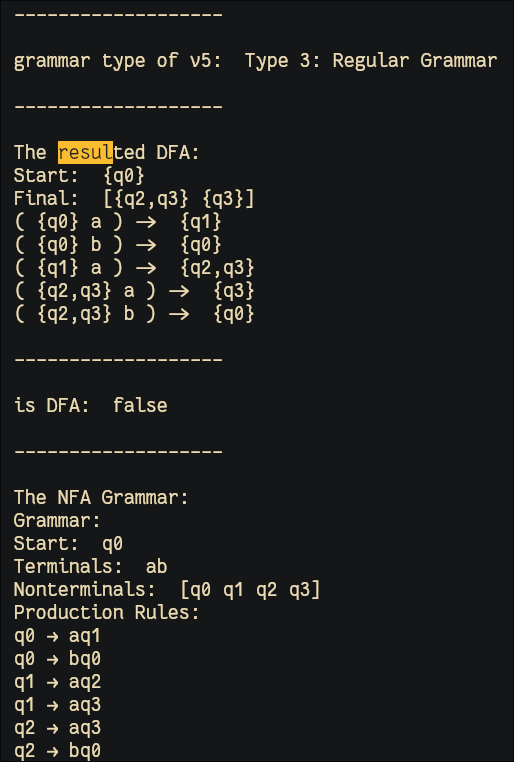
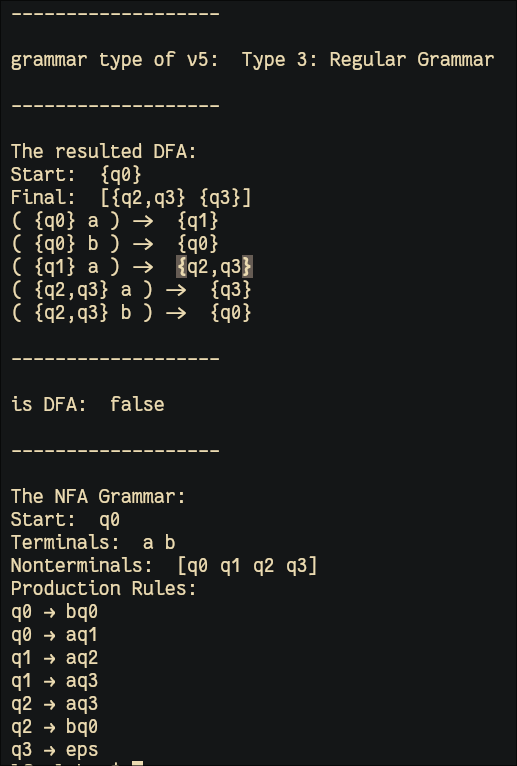
minor tweaks

diff --git a/lfa/grammar.go b/lfa/grammar.go
@@ -3,6 +3,7 @@ package lfa
 import (
 	"fmt"
 	"math/rand"
+	"strings"
 )
 
 var (
@@ -25,6 +26,19 @@ func NewGrammarV5() *Grammar {
 		Vt: []byte{'a', 'b', 'c', 'd'},
 		P: map[NonTerminal][]string{
 			"S": {"bS", "aF", "d"},
+			"F": {"cF", "dF", "aL", "b"},
+			"L": {"aL", "c"},
+		},
+	}
+}
+
+func NewGrammarV51() *Grammar {
+	return &Grammar{
+		S:  "S",
+		Vn: []NonTerminal{"S", "F", "L"},
+		Vt: []byte{'a', 'b', 'c', 'd'},
+		P: map[NonTerminal][]string{
+			"S": {"Sb", "aF", "d"},
 			"F": {"cF", "dF", "aL", "b"},
 			"L": {"aL", "c"},
 		},
@@ -90,9 +104,12 @@ func (g *Grammar) ToDFA() *DFA {
 }
 
 func (g *Grammar) Print() {
-	fmt.Println("Grammar:")
 	fmt.Println("Start: ", g.S)
-	fmt.Println("Terminals: ", string(g.Vt))
+	str := make([]string, 0)
+	for _, t := range g.Vt {
+		str = append(str, string(t))
+	}
+	fmt.Println("Terminals: ", strings.Join(str, " "))
 	fmt.Println("Nonterminals: ", g.Vn)
 
 	fmt.Println("Production Rules:")

diff --git a/lfa/nfa.go b/lfa/nfa.go
@@ -231,9 +231,9 @@ func (n *NFA) ToGrammar() *Grammar {
 		}
 	}
 
-	// for _, finalState := range n.F {
-	// 	grammar.P[finalState] = append(grammar.P[finalState], "")
-	// }
+	for _, finalState := range n.F {
+		grammar.P[finalState] = append(grammar.P[finalState], "eps")
+	}
 
 	return grammar
 }
